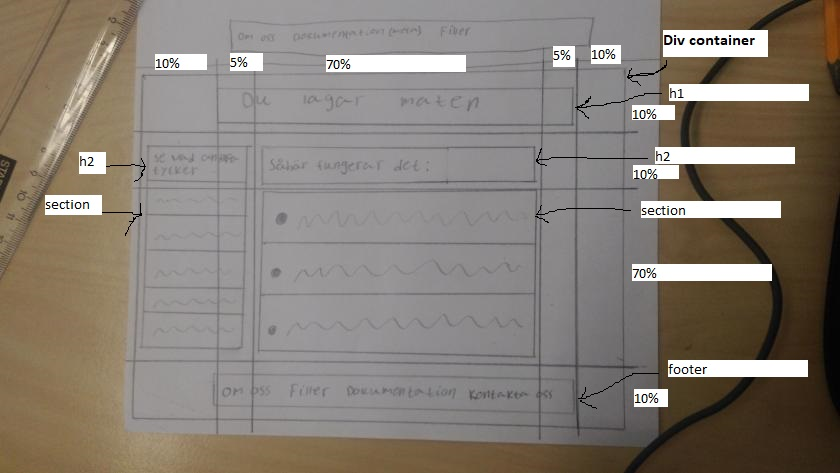
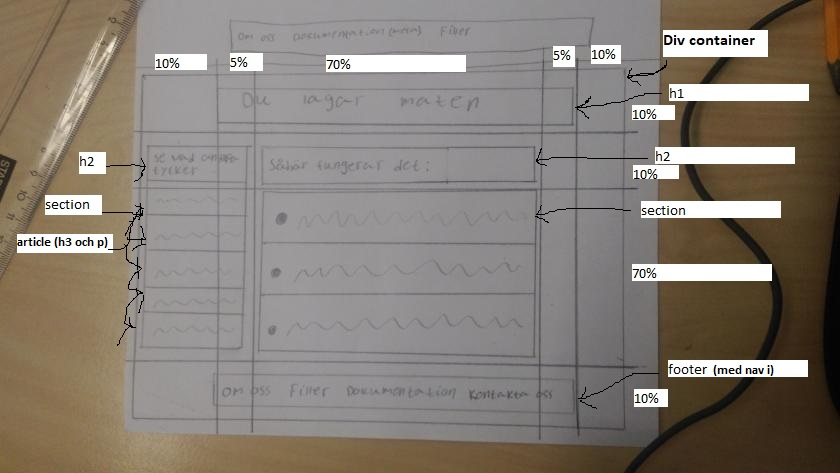
changed a bunch of things

Changed region(s): [[0.0, 0.4736, 0.1857, 0.5328], [0.8357, 0.7696, 0.9286, 0.7992]]

diff --git a/misc/dokumentation.html b/misc/dokumentation.html
@@ -23,7 +23,7 @@
 
     <h2>1. Idébeskrivning</h2>
     <!-- Vad ska du göra? Vilken är din målgrupp? Om du utvecklar en tidigare sida; Vad ska du förändra/utveckla? -->
-    Jag ska göra en hemsida för restaurangen DLM (du lagar maten), där gästerna måste laga sin mat själva. Idén är att restaurangen erbjuder en meny av maträtter, och sedan erbjuder gästerna ett kök med alla nödvändiga ingredienser. När maten är klar får ett betyg av en kock beroende på hur bra den blev.
+    Jag ska göra en hemsida för restaurangen DLM (du lagar maten), där gästerna måste laga sin mat själva. Idén är att restaurangen erbjuder en meny av maträtter, och sedan erbjuds gästerna ett kök med alla nödvändiga ingredienser. När maten är klar får ett betyg av en kock beroende på hur bra den blev.
 
     <h2>2. Planering</h2>
 
@@ -55,9 +55,11 @@
             <td>5</td>
             <td>
             <!-- Vad görs på lektionen vecka 5? -->
+            Börjar skapa indexsidan så att jag kan se tydligare hur hemsidan kommer se ut, och eventuellt upptäcka designmisstag (designer som är för svåra att skapa), innan jag gör alla skisser.
             </td>
             <td>
             <!-- Vad görs utanför lektionen vecka 5? -->
+            Gör skisserna för de andra två sidorna.
             </td>
         </tr>
 
@@ -136,13 +138,14 @@
 
     <h2>3. Dokumentation</h2>
     <!-- Här skriver du efter varje lektion. Vad har jag gjort? Vad gick bra? Vad gick mindre bra? Vad ska jag tänka på till nästa gång? -->
-    Idag har jag skaffat ett (till) githubkonto och planerat min hemsida samt skapat en skiss för indexsidan.
 
     <h3>Lektion vecka 4</h3>
+    Idag har jag skaffat ett (till) githubkonto och planerat min hemsida samt skapat en skiss för indexsidan.
     <!-- Fyll på med dokumentation här. -->
 
     <h3>Lektion vecka 5</h3>
     <!-- Fyll på med dokumentation här. -->
+    Jag har börjat skapa min indexsida i kodform, och som jag anade har jag fått ändra om lite i designen eftersom snyggt på papper och snyggt i webläsare inte alltid är likadant. Jag fick lite mindre tid idag än vanligt eftersom jag hade ett möte med google head of startups, men det gick ändå ganska bra. Jag har provat lite nytt css så att den här hemsidan inte är begränsad till en skärm. Nu när jag har lite webläsarperspektiv på hur min sida antagligen kommer se ut ska jag se till att göra klart skisserna för de andra två utanför lektionstid.
 
     <h3>Lektion vecka 6</h3>
     <!-- Fyll på med dokumentation här. -->

diff --git a/index.html b/index.html
@@ -1,1 +1,45 @@
-<!--todo-->
+<!DOCTYPE html>
+<html lang="en">
+    <head>
+        <meta charset="UTF-8">
+        <meta name="viewport" content="width=device-width, initial-scale=1.0">
+        <title>Document</title>
+        <link rel="stylesheet" href="css/style.css" type="text/css">
+    </head>
+    <body>
+        <div id="container">
+            <header id="main-header">
+                <h1>Du lagar maten</h1>
+            </header>
+
+            <h2 id="reviews-header">Se vad andra tycker</h2>
+            <section id="reviews">
+                <article></article>
+                <article></article>
+                <article></article>
+                <article></article>
+                <article></article>
+            </section>
+            
+            <!-- this really needs a better name-->
+            <h2 id="lists-header">Så fungerar det:</h2>
+            <section id="lists">
+                <ul>
+                    <li>Kom in i restaurangen</li>
+                    <li>Välj en maträtt från menyn</li>
+                    <li>Låna köket och tillred maten</li>
+                    <li>Få ett omdöme från en kock</li>
+                    <li>Skryt till familj och vänner</li>
+                </ul>
+            </section>
+
+            <footer id="main-footer">
+                <nav>
+                    <a href="">En länk</a>
+                    <a href="">En länk</a>
+                    <a href="">En länk</a>
+                </nav>
+            </footer>
+        </div>
+    </body>
+</html>

diff --git a/css/style.css b/css/style.css
@@ -1,0 +1,77 @@
+div#container {
+    height: 100%;
+    display: grid;
+    grid-template-areas: 
+    '.  he he he . '
+    'rh rh lh .  . '
+    're re li li . '
+    '.  fo fo fo . '
+    ;
+    
+    grid-template-columns: 10% 5% 70% 5% 10%;
+    grid-template-rows: 10% 10% 70% 10%;
+    gap: 1em;
+
+}
+
+div#container header#main-header {
+    grid-area: he;
+    text-align: center;
+    border: solid black;
+}
+
+div#container h2#reviews-header {
+    grid-area: rh;
+
+    margin: 0px;
+    /* border: solid black; */
+    display: flex;
+}
+
+div#container h2#lists-header {
+    grid-area: lh;
+
+    /* border: solid black; */
+    display: flex;
+}
+
+div#container section#reviews {
+    grid-area: re;
+    /* border: solid black; */
+
+    display: flex;
+}
+
+div#container section#lists {
+    grid-area: li;
+    width: 100%;
+
+    /* border: solid black; */
+}
+
+div#container section#lists ul {
+    /* height: 100%; */
+    /* width: 100%; */
+    padding: 0px;
+    display: flex;
+    list-style: circle inside;
+    justify-content: space-evenly;
+    flex-direction: column;
+    /* border: solid black; */
+}
+
+div#container section#lists ul li {
+    /* margin-top: 2px; */
+    /* margin-bottom: 2px; */
+    padding: 1em;
+    font-size: 4em;
+    /* border: solid black; */
+    box-shadow: -1px -1px 2px 1px grey;
+}
+
+div#container footer#main-footer {
+    grid-area: fo;
+
+    border: solid black;
+    display: flex;
+}
